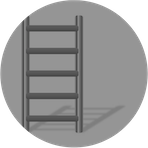
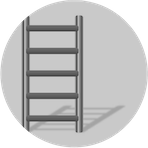
color fix for product page

diff --git a/web-app/css/dream-custom.css b/web-app/css/dream-custom.css
@@ -61,6 +61,10 @@ body {
     background-color: #C09853;
 }
 
+.text-0 {
+    color: #999999;
+}
+
 .text-2 {
     color: #3A87AD;
 }
@@ -255,9 +259,9 @@ body {
 }
 
 .pricing-column:hover {
-	-webkit-box-shadow:0 0 20px 0 rgba(0,0,0,0.4);
-	-moz-box-shadow:0 0 20px 0 rgba(0,0,0,0.4);
-	box-shadow:0 0 20px 0 rgba(0,0,0,0.4);
+	-webkit-box-shadow:0 0 10px 0 rgba(0,0,0,0.4);
+	-moz-box-shadow:0 0 10px 0 rgba(0,0,0,0.4);
+	box-shadow:0 0 10px 0 rgba(0,0,0,0.4);
 	z-index:1;
 }
 
@@ -306,5 +310,9 @@ body {
 .pricing-column .pricing-button .button {
 	margin:0 !important;
     font-size: 18px;
+}
+
+.pricing-button form {
+    margin: 10px;
 }
 
